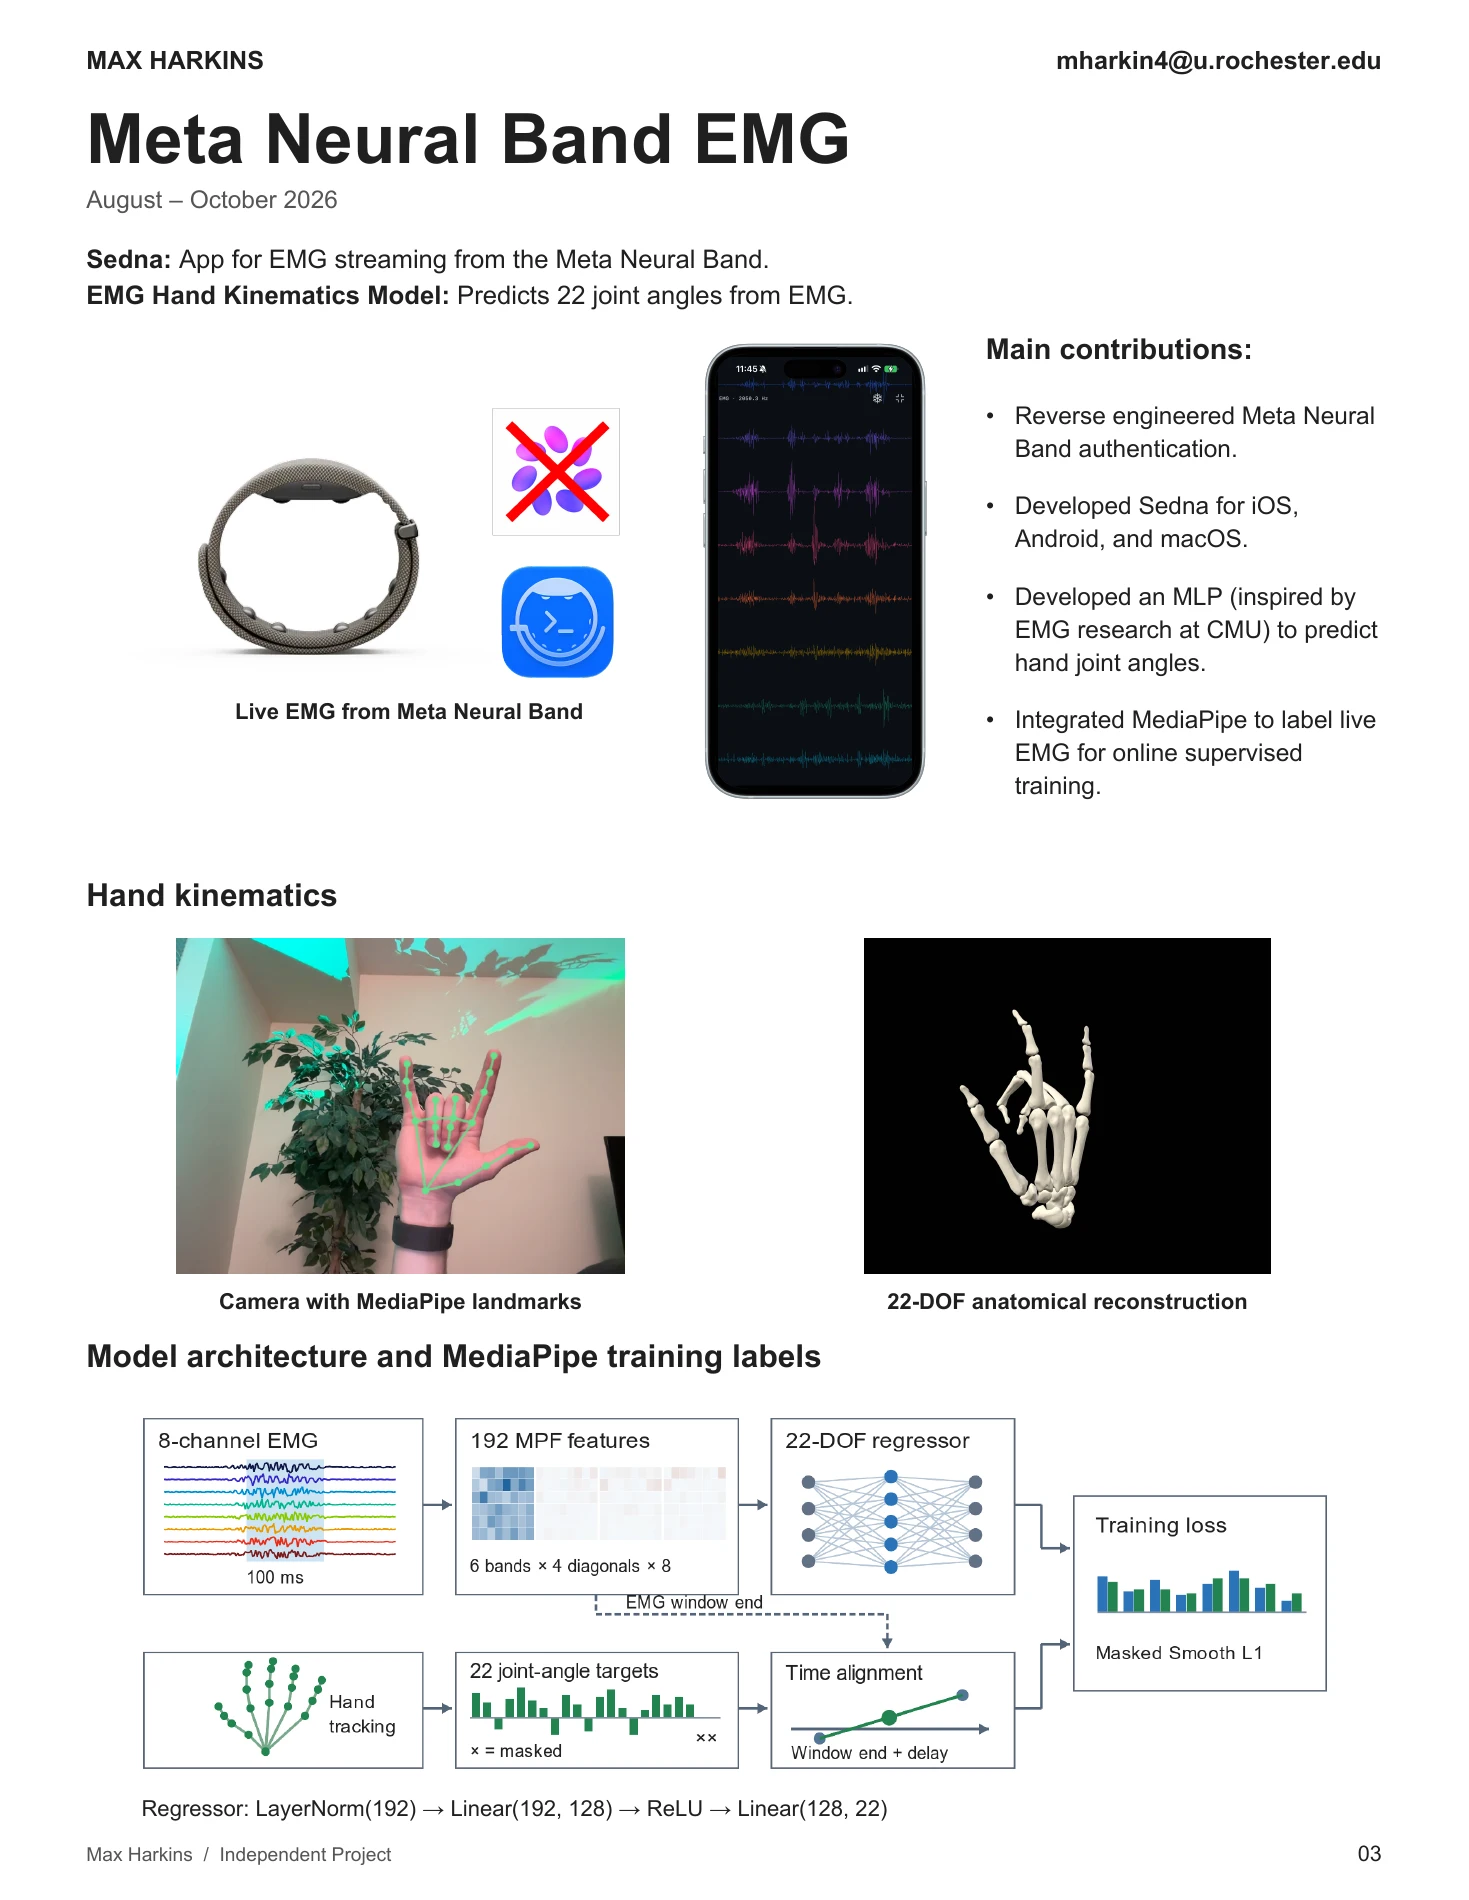
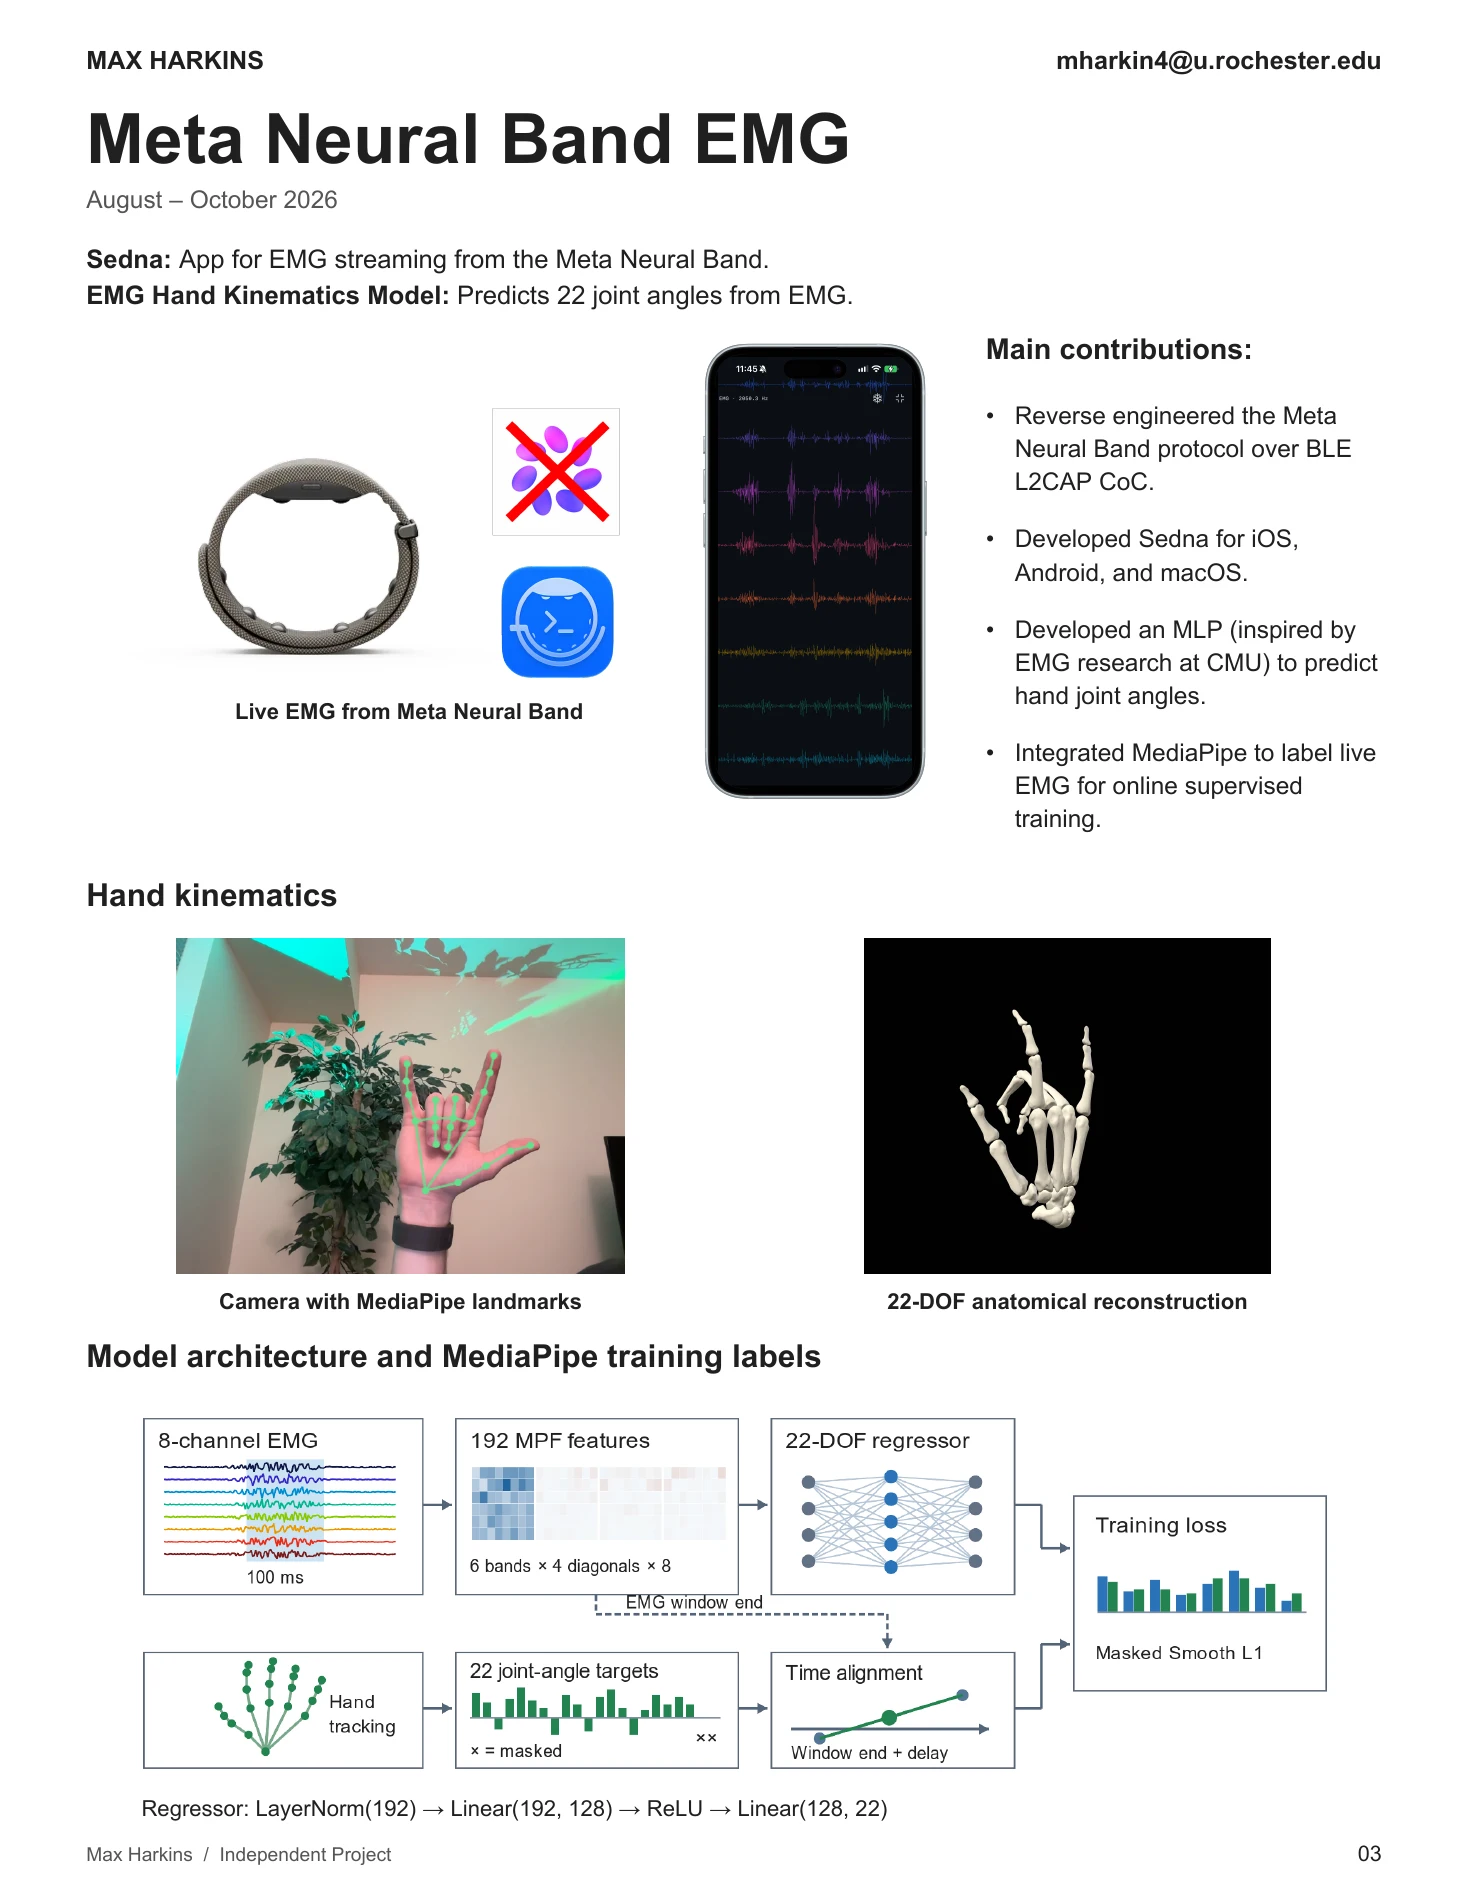
Refine microfabrication and Bluetooth terminology

Changed region(s): [[0.6739, 0.2174, 0.9496, 0.4347]]

diff --git a/docs/portfolio.html b/docs/portfolio.html
@@ -20,14 +20,14 @@
   <div class="page">
     <main class="doc-head rise r1">
       <h1>Portfolio</h1>
-      <p class="sub">Selected projects in laser instrumentation, resin micro-fabrication, and EMG hand tracking.</p>
+      <p class="sub">Selected projects in laser instrumentation, resin microfabrication, and EMG hand tracking.</p>
       <div class="doc-actions">
         <a class="btn primary" href="assets/max-harkins-portfolio.pdf" target="_blank" rel="noopener">View portfolio PDF</a>
         <a class="btn ghost" href="assets/max-harkins-portfolio.pdf" download>Download PDF</a>
       </div>
       <div class="portfolio-pages" aria-label="Portfolio pages">
         <img src="assets/portfolio-page-1.webp" width="1469" height="1900" alt="Page 1. WayPoint laser ablation system, scan path generation, and fabricated collagen structures.">
-        <img src="assets/portfolio-page-2.webp" width="1469" height="1900" loading="lazy" alt="Page 2. Resin Micro-fabrication, with the violin STL model and a microscope image of the print.">
+        <img src="assets/portfolio-page-2.webp" width="1469" height="1900" loading="lazy" alt="Page 2. Resin Microfabrication, with the violin STL model and a microscope image of the print.">
         <img src="assets/portfolio-page-3.webp" width="1469" height="1900" loading="lazy" alt="Page 3. Meta Neural Band EMG, Sedna, and the hand kinematics model.">
       </div>
     </main>
